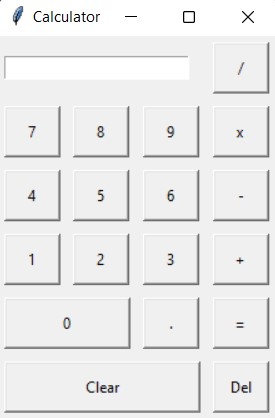
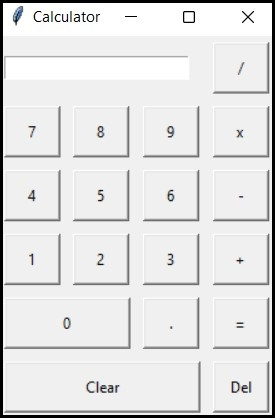
revised main description in README and added border to screenshot

Changed region(s): [[0.0, 0.0, 1.0, 1.0]]

diff --git a/README.md b/README.md
@@ -1,6 +1,6 @@
 
 # Four-Function Calculator
-A calculator with a GUI with four operators: add, subtract, multiple and divide.
+A GUI-based calculator application with four operators: add, subtract, multiply and divide.
 
 
 
@@ -15,7 +15,7 @@ A calculator with a GUI with four operators: add, subtract, multiple and divide.
 
 
 ## Installation
-Installation of Python is required. Tkinter is the library used for the GUI and it is pre-installed on Python. Python will operate on a standard IDE. 
+Installation of Python is required. Tkinter is the library used for the GUI and it is pre-installed in Python. Python will operate on a standard IDE. 
 
 ## Author
 
